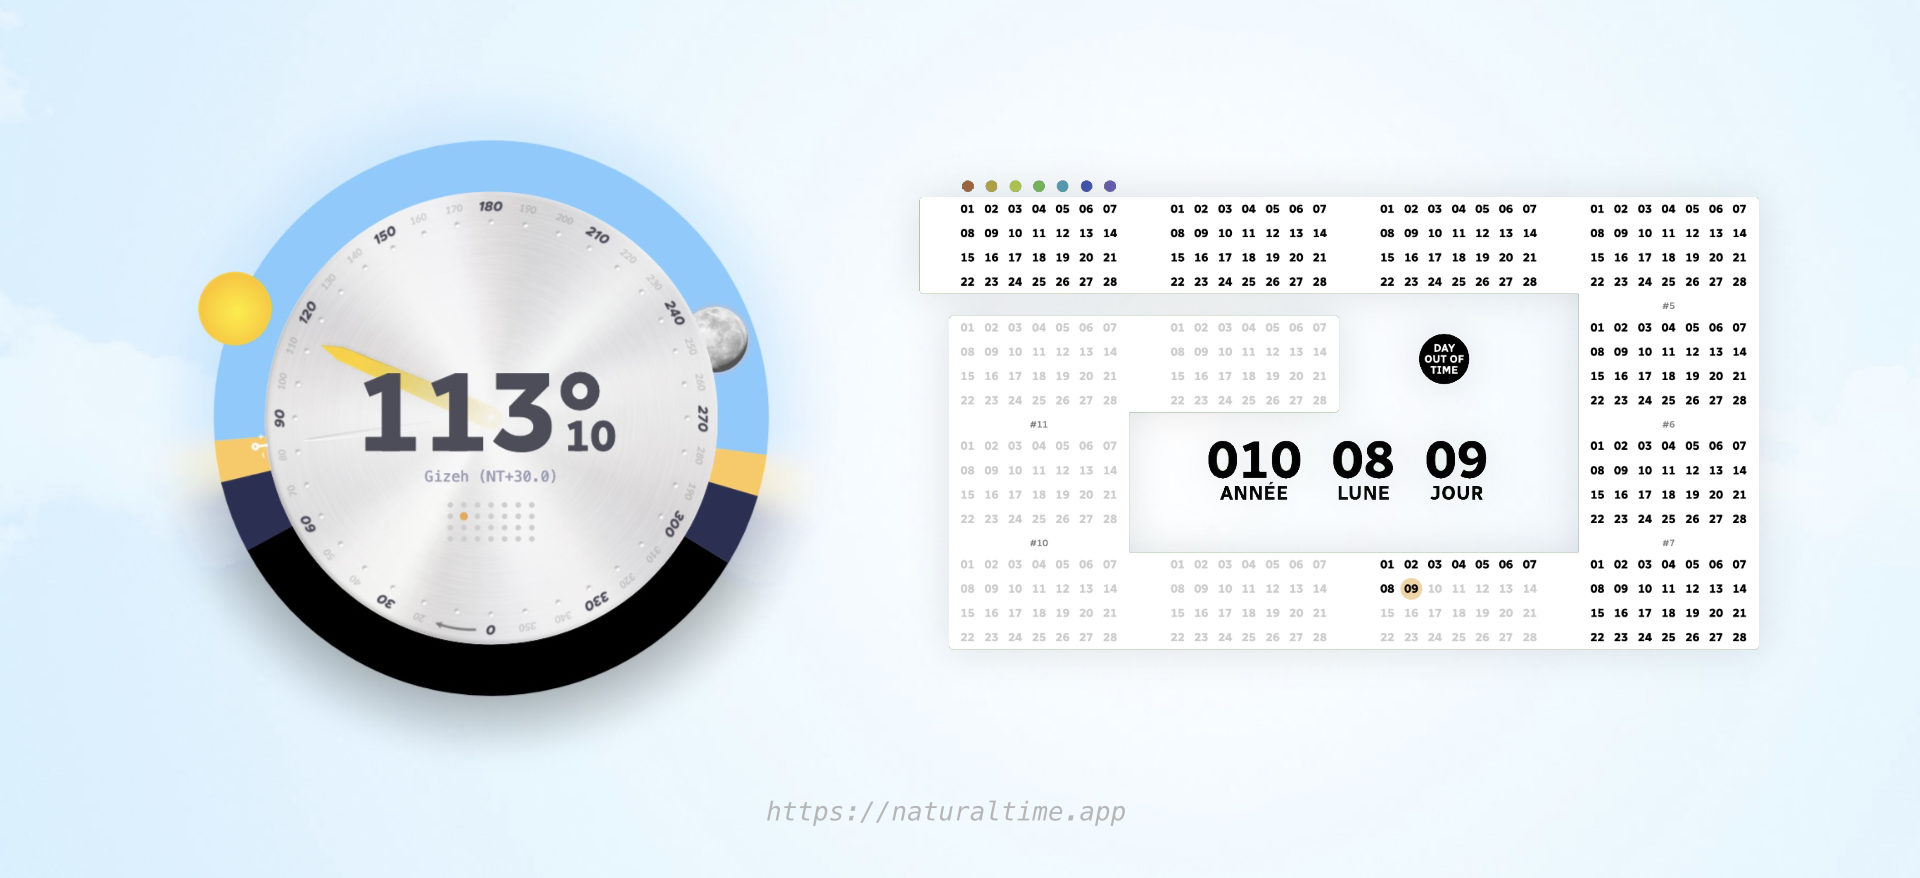
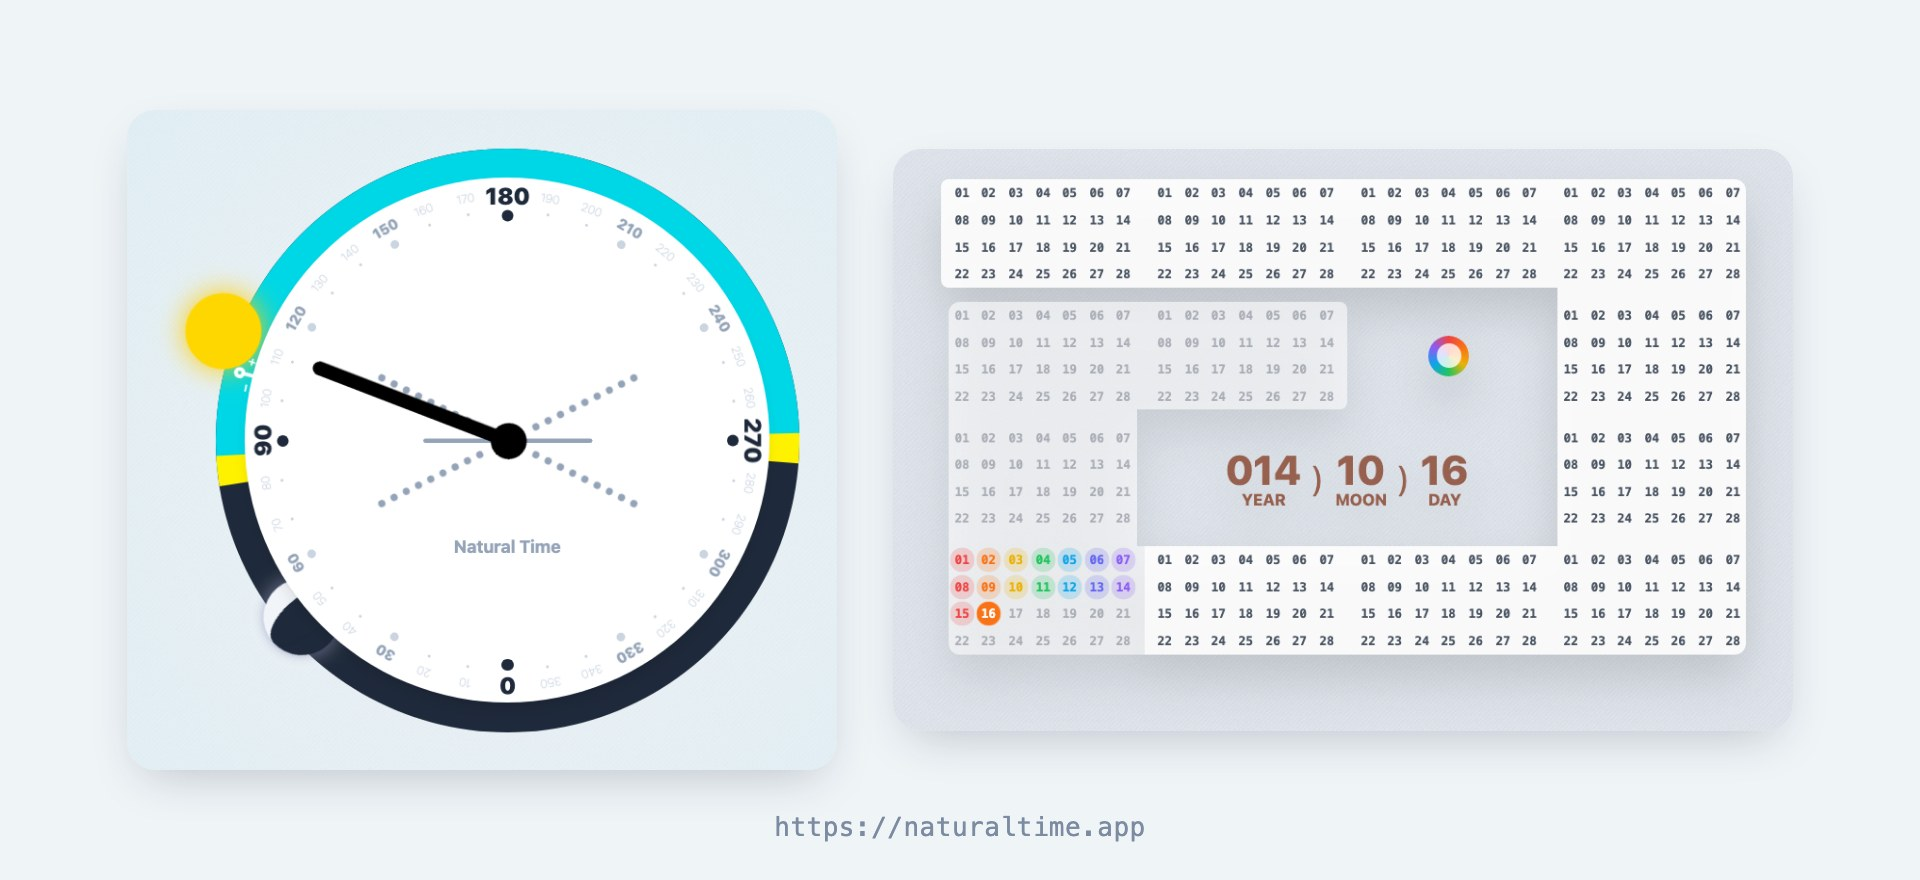
Refresh specifications: welcome, implementations, mustaches (v1.1)
- Add a welcome section framing this repo as the specification itself
- List the open source implementations (js, app, c, py) with honest status
- Add the mustaches as an optional section: what they draw, how to read
  them, the mustache angle formula and conventions for implementers
- Replace the 2022 screenshot with a fresh capture of the current app
  (French Alps, 111°), add an annotated mustaches diagram
- Update contact email

Changed region(s): [[0.0625, 0.1538, 0.9375, 0.861], [0.0938, 0.861, 0.4375, 0.8918], [0.4062, 0.9226, 0.5938, 0.9533]]

diff --git a/README.md b/README.md
@@ -4,17 +4,36 @@ Natural time is a fresh, elegant, and coherent way of measuring the movements of
 
 This **new time standard** is based on common sense and the observation of natural cycles.
 
-This repository contains the current specifications of natural time in the English language. You may find the first implementation of it written in Javascript here : [github.com/sylvain441/natural-time-js](https://github.com/sylvain441/natural-time-js)
-
 ![Natural time app](.github/natural-time-app.jpg)
 
-Play with natural time at [https://naturaltime.app/](https://naturaltime.app/)
+## Welcome
+
+**This repository is the specification.** Plain English, no code, no dependency — the shared reference that anybody can read, argue with, and build upon.
+
+It is released under [CC0](./LICENSE): there is nothing to license, nothing to ask, nothing to pay.
+
+- **You just want to see natural time?** → [naturaltime.app](https://naturaltime.app/)
+- **You want to build something with it?** → read the specifications below, then pick an [implementation](#implementations) or write your own
+- **You want to help?** → [contribute](#contribute)
+
+## Implementations
+
+Natural time already lives in several codebases. All of them are free and open source.
+
+| Project | Language | What it is | Status |
+| ------- | -------- | ---------- | ------ |
+| [natural-time-js](https://github.com/sylvain441/natural-time-js) | TypeScript | **Reference implementation.** Calendar, solar and lunar computations. Published on npm as [`natural-time-js`](https://www.npmjs.com/package/natural-time-js) | Stable |
+| [natural-time-app](https://github.com/sylvain441/natural-time-app) | Vue 3 | The web app behind [naturaltime.app](https://naturaltime.app/) — offline-capable PWA, 26 languages | Live |
+| [natural-time-c](https://github.com/sylvain441/natural-time-c) | C (+ Swift package) | Portable core for embedded and native platforms, numerically checked against the JS reference | Work in progress |
+| [natural-time-py](https://github.com/sylvain441/natural-time-py) | Python | Early port, born out of a Home Assistant experiment. Lightly tested — treat it as a sketch | Experimental |
+
+Built something? Open an issue or [drop a line](#contribute), it will be listed here.
 
 # Specifications
 
-Current version of natural time specifications : `v1.0`
+Current version of natural time specifications : `v1.1`
 
-## TIME 
+## TIME
 
 ### 360° clock
 
@@ -61,7 +80,55 @@ Translating degrees from hours/minutes/seconds is quite straightforward. This ta
 | **5°**          | -                | 20 min             | -                  |
 | **1°**          | -                | 4 min              | -                  |
 | **0,1°**        | -                | -                  | 24s                |
-| **0,01°**       | -                | -                  | 2,4s               | 
+| **0,01°**       | -                | -                  | 2,4s               |
+
+## THE MUSTACHES (optional)
+
+    The mustaches are the signature of a natural clock
+
+They are what makes a natural clock recognizable at a glance, the way two hands make a mechanical clock recognizable. They are **optional**: a natural clock without mustaches is still a perfectly valid natural clock, and no one needs them to read the time. They add a second layer of meaning — *where you are on Earth, and where you are in the year* — on top of the position of the sun.
+
+![The mustaches](.github/mustaches.jpg)
+
+### What they draw
+
+Everywhere on Earth except the equator, the sun does not rise at the same angle all year long. It drifts back and forth between two extremes, and it reaches them on the two solstices:
+
+- Sunrise travels between the **summer solstice sunrise** (its earliest) and the **winter solstice sunrise** (its latest)
+- Sunset travels between the **winter solstice sunset** (its earliest) and the **summer solstice sunset** (its latest)
+
+Drawing those four angles on the dial produces two opened "V" shapes — one on the sunrise side, one on the sunset side. Together they look like a pair of mustaches.
+
+### How to read them
+
+    The wider the mustaches, the further you are from the equator
+
+- At the **equator**, both mustaches collapse into a single straight line: sunrise stays at `~90°` and sunset at `~270°` all year long
+- At **mid latitudes** they open moderately (around `27°` at latitude 46°)
+- Near the **poles** they open wildly, until day or night swallows the whole dial
+
+The straight line joining `90°` and `270°` is the **equinox line**. Twice a year the sun rises and sets exactly on it, and day and night last exactly the same.
+
+Because the mustaches only depend on your latitude, they barely move from one year to the next. They are the fixed landscape of your place; the sun is what moves across it.
+
+### Mustache angle
+
+A single number can summarize how wide a pair of mustaches opens at a given latitude — the average of the four gaps between the solstice angles and the equinox line:
+
+    MustacheAngle = ( (WinterSunrise - SummerSunrise) + (SummerSunset - WinterSunset) ) / 4
+
+(in the southern hemisphere, swap winter and summer)
+
+It goes from `0°` at the equator to `90°` at the polar circles, where it is clamped.
+
+### Conventions for implementers
+
+Nothing here is mandatory. Implementations that do draw the mustaches are invited to keep them recognizable:
+
+- Draw the four solstice angles, not the sunrise/sunset of the current day — the mustaches are the **yearly frame**, not today's weather
+- Keep them visually quieter than the sun's position: dotted, dashed or thin
+- Mark the equinox line (`90°`–`270°`) when it helps
+- Compute them for the observer's latitude, from real ephemerides
 
 ## DATE
 
@@ -128,7 +195,7 @@ If the time distance between your position and the antimeridian is known, the fo
 
     Year 1 beginning : 1356091200000 (UNIX Timestamp)
 
-Natural time adopted December 21st, 2012 as the beginning of Year 1. It is an arbitrary date. Any other random solstice would have also been a perfect choice, but this one simply carries an interesting symbolic package. Wrongly advertized as the "end of the world", 2012 is more like the beginning of a new cycle of 5125 years.    
+Natural time adopted December 21st, 2012 as the beginning of Year 1. It is an arbitrary date. Any other random solstice would have also been a perfect choice, but this one simply carries an interesting symbolic package. Wrongly advertized as the "end of the world", 2012 is more like the beginning of a new cycle of 5125 years.
 
     Year 1 : dec 2012 to dec 2013  
     UTC : 2012-12-21 at 12:00  
@@ -196,7 +263,7 @@ With `base 10` being the most used and adopted convention on Earth right now, ad
 
 A full circle can be graduated in an infinite number of ways. The widely adopted `360°` convention is used for many reasons:
 
-- No learning curve: most of humanity pictures instantly the shape of 180°, 90°, 60° angles
+- No learning curve: most of humanity pictures instantly the shape of 180°, 90°, 60° angles
 - It matches the latitude/longitude system
 - There are a lot of dividers: 180, 120, 90, 72, 60, 45, 40, 36, 30, 24, 20, 18, 15, 12, 10, 9, 8, 6, 5, 4, 3, 2, 1
 
@@ -212,9 +279,14 @@ We could have used another arbitrary place on Earth as the meridian of origin. H
 
 The Earth's rotation is not geometrically perfect, nor is its orbit around the Sun. Consequently, all days have different durations. UTC (Coordinated Universal Time) was designed to deal with this "problem" by calculating the mean time of all those variations. By using UTC, we don't reinvent the wheel. It also makes translations from artificial time much easier.
 
+# Changelog
+
+- **v1.1** — Added the mustaches (optional). Added the implementations list. New illustrations.
+- **v1.0** — First public specification (summer 2022).
+
 # Contribute
 
-Natural time is open to contributions from free-thinking minds. Find your way through Github or email at: [sylvain441@proton.me](mailto:sylvain441@proton.me) to get in touch.
+Natural time is open to contributions from free-thinking minds. Find your way through Github or email at: [sylvain@biquette.xyz](mailto:sylvain@biquette.xyz) to get in touch.
 
 # License
 
